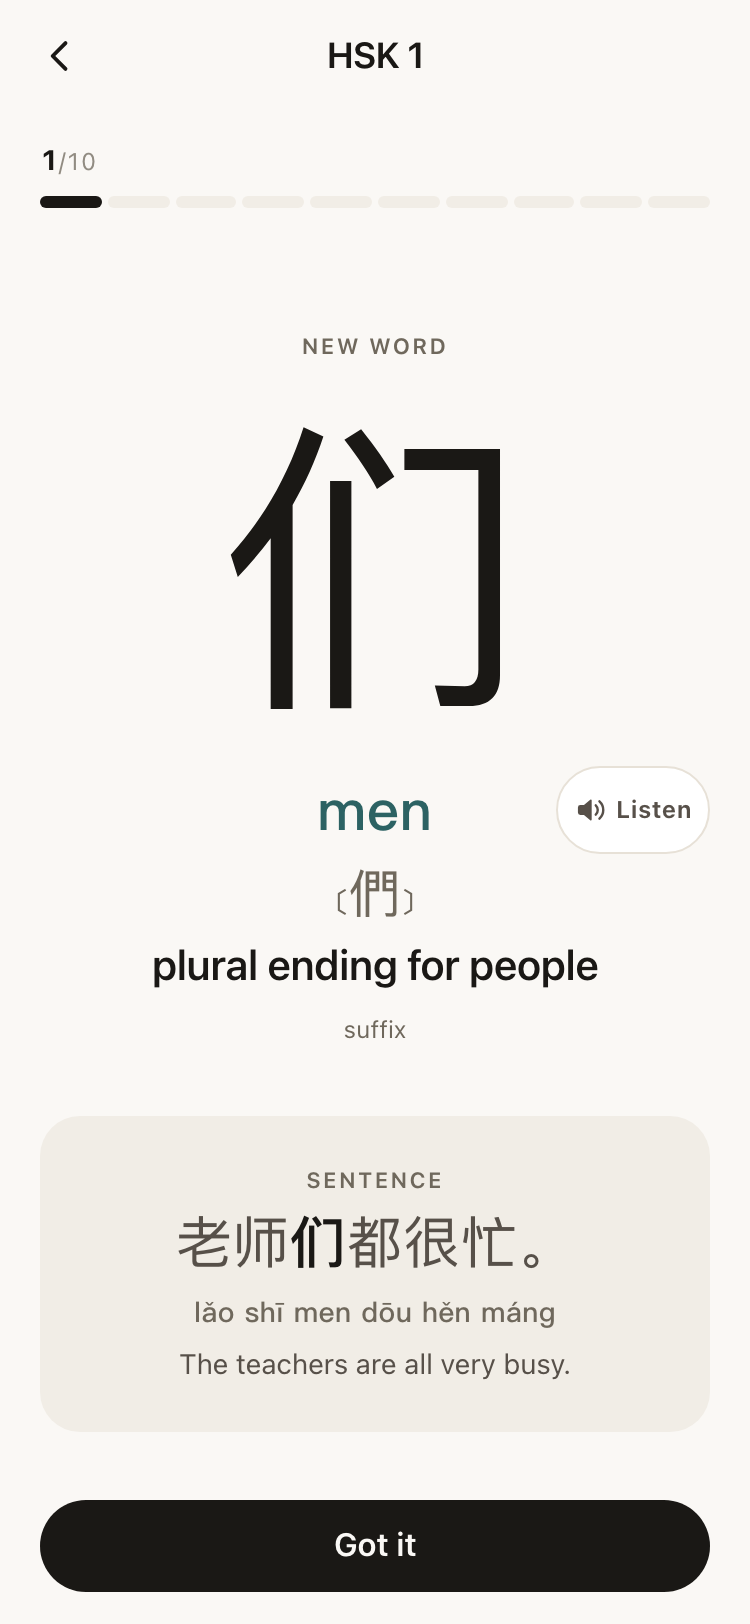
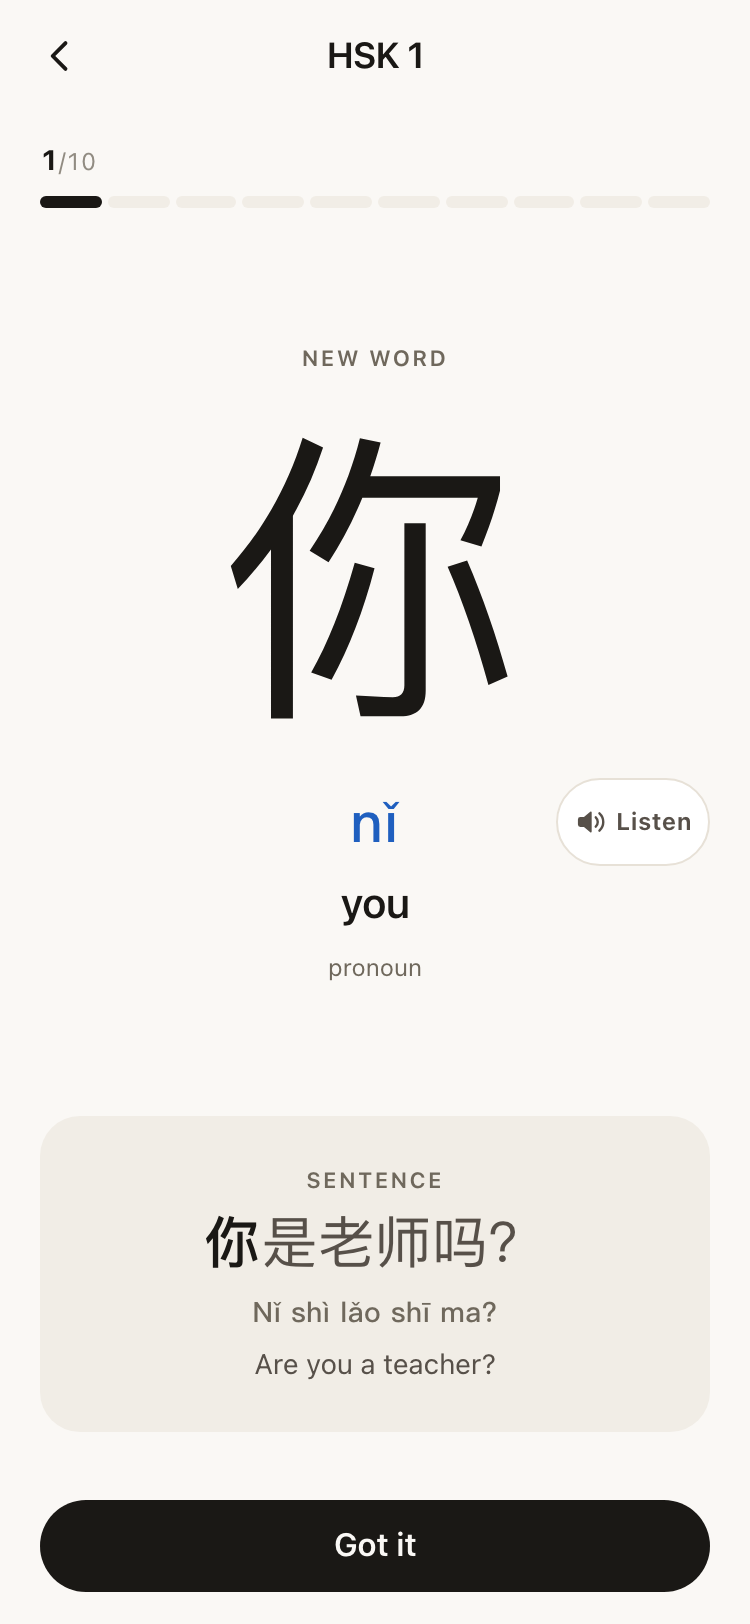
critic(session-engine): FAIL — Ask a new word its first question in the session that introduced it, and stop counting t [loop 5]

diff --git a/progress/verdicts/loop-5-session-engine.md b/progress/verdicts/loop-5-session-engine.md
@@ -1,0 +1,132 @@
+# loop 5 — session-engine
+
+**FAIL.** Loop 4's named gap did land — a taught word now counts on the home screen and has its
+own bucket in browse (`3a6c6e9`, `91c46ea`) — but the defect underneath it is untouched and now
+sits on the first screen a new learner sees: **session 1 is ten teach cards and zero questions**,
+and the rail counts them as questions. Five of the critic's six findings survived the adversarial
+verifier; I re-drove the real `buildSession` + `applyAnswer`/`applySeen` loop myself and reproduced
+the headline numbers to the digit.
+
+## Surviving findings
+
+### 1. MAJOR — a "ten-question session" that asks nothing, and says it did
+
+`buildSession(hsk1, 1, null, 10)` returns 10 of 10 `kind === 'introduce'` (my run, seed 7). Driving
+60 daily sessions through the real store loop, `introduce` is **30.8% of all 600 cards at 90%, 75%
+and 55% accuracy** — identical to three figures, because the count is quota-driven, not
+accuracy-driven. The per-session intro sequence is `10, 0, 4, 3, 3, 3, …` and never leaves 3.
+
+On screen: `QuizProgress.svelte:32` emits `<span class="sr-only">Question </span><b>{shown}</b>/<b>{total}</b>`,
+and `quiz/[level]/+page.svelte:353` renders it **above** the `{#if !teaching}` guard that removes
+the choice grid — so the strip announces "Question 1/10" over a card with no question on it
+(`progress/shots/loop-5/session-engine-mobile.png`, `session-engine-s1-card1-mobile.png`).
+`+page.svelte:167` promises "Five levels, ten questions a session"
+(`session-engine-home-after-mobile.png`); `README.md:3` promises "a ~10-question session".
+Fair to the builder: `SessionSummary` already special-cases `firstLook`
+(`session-engine-s1-summary-mobile.png` reads "10 new words introduced", not "0 of 10 correct"),
+so the overstatement is confined to `QuizProgress` and the home/README copy.
+
+### 2. MAJOR — production is rare, and rarest for the learner who needs it; the cause is structural
+
+My 60-session runs on L1: 90% → 30.8 / 45.7 / **23.5**; 75% → 30.8 / 53.7 / **15.5**; 55% →
+30.8 / 61.3 / **7.8** (introduce / recognition / production). "Quizzing in both directions" is
+withheld from exactly the learner who is struggling. The critic blamed `cardKindFor`'s miss-reset;
+that is wrong and the verifier's correction stands — `PRODUCTION_STREAK` is 1, so a 55% learner
+reaches it constantly. The real cause is ineligibility: over 120 daily sessions (1,200 cards) I
+count **365 introductions + 362 first-questions = 727 cards, 60.6%**, that can never be production
+because `direction.ts:107-109` forces recognition at `answers <= 0`. Only 473 cards in four months
+of daily practice review anything older than 48 hours. The production card that does appear is a
+good card (`session-engine-production-mobile.png`) — there are just not many of them.
+
+### 3. MAJOR (raised from the verifier, not in the critic's list) — 44% of taught words are answered exactly once, ever
+
+Same 120-session run: 365 words met, **160 answered exactly once**, 3 never answered at all. At 60
+sessions the once-only share runs 74/182 at 90% accuracy up to 96/182 at 55%. `wordWeight` drops a
+word to `streakDecay^1` on its first correct answer while the intro + debt pipeline hands out six
+guaranteed slots a session, so a word answered right once is out-competed permanently. This is the
+**opposite** of the critic's refuted finding 5: the model under-reviews correct words far more
+severely than it over-reviews recovered ones.
+
+### 4. MINOR — discovery is stuck at 3.08 new words a session, and the docs say otherwise
+
+60 sessions at 75%: 600 cards, **185 distinct words met, 182 answered, 3 taught-but-never-asked**,
+185 intro cards = 3.08/session → ~162 daily sessions to finish HSK 1. It is a fixed point, not
+noise: `exploreShare = 4`, `capacity = OWED_SESSIONS × 6 = 12`, `owed = 3` ⇒ `brake = 0.75` ⇒
+`explore = 3`, and the `debt` quota (`index.ts:279-284`) clears exactly those three, re-creating
+`owed = 3`. The brake is throttled by a debt the same session manufactures. Two comments are false
+of the shipped code for *every* learner including a perfect one: `weighting.ts:127` ("meets 4 new
+words every session no matter how much revision is outstanding") and `index.ts:147` ("A learner who
+is keeping up sees the full 40%").
+
+### 5. MINOR — metalinguistic cards have a closed distractor carousel
+
+`SIGNALS['hanzi-to-meaning'].register = 20` (`distractors.ts:107`) outranks every other signal
+combined (6+4+4+2 = 16) and L1 ships only 14 metalinguistic glosses. Over 400 draws each: 间, 的,
+次, 杯, 本, 吧 each drew **exactly 4 distinct distractors, ever**; control 好 drew 29. Verifier's
+correction: it is not all 14 — 别 draws 11, 第 10, 地 6 — so the lock-in is the ~5 measure words
+plus ~4 particles. Seen on screen twice in real runs (间 and later 本 against the same three).
+
+### 6. MINOR — home says "practised", browse says "not yet tested", about the same ten records
+
+After one all-teach session: `levelStats` → `{practised: 10, answered: 0}` and
+`overallSummary → {practised: 10}`, so `/` reads "10 words practised" and "HSK 1 · 10 of 500
+practised" with a filled bar (`session-engine-home-after-mobile.png`), while `/browse/1` reads
+"490 New · 10 Shown", "Shown by a teach card, not yet tested", and **no Learning chip at all**
+(`session-engine-browse-shown-mobile.png`). Both halves are prescribed by `record.ts:170-180`;
+the only defect is the word *practised* in `levels/stats.ts:60` and `LevelCard.svelte:221`. That
+belongs to level-select, not to this piece.
+
+### 7. MINOR (latent) — `cardKindFor` reads a raw field it says it doesn't
+
+`direction.ts:108` reads `record?.wordId` directly, contradicting its own docstring ("Reads
+`readRecord`, not the raw fields"). A record without `wordId` falls back to `phase('') = 1` and
+flips the refresh schedule. Unreachable through the shipped store (`blankWord` always sets it).
+
+## Refuted — do not re-litigate
+
+The critic's "no interval, a recovered word is met in 35% of sessions" is **off by ~50x**. In a
+genuinely played store the 12 words missed-then-recovered-3× were drawn 3 times across 40
+subsequent sessions (0.6% per word-session); synthetic constructions peak at 7/40, never 40/40.
+The *ratio* is real (weight 1.060 vs 0.130, because `accuracy = 1 + 4 × lifetime error rate` never
+decays) but both sit far below the draw threshold. The "4.36 of 10 words repeat" symptom is real
+and misattributed: it is the debt quota returning the previous session's 3 teach cards at a rate of
+1.000 by design, not `restMs`.
+
+## What held up
+
+The verifier's 125 fuzzed sessions across all five levels: zero short sessions, zero duplicate
+words in a run, zero cards with other than 4 choices, zero duplicate hanzi in a card, zero
+cross-question answer leakage, no word introduced twice in 120 sessions. Degenerate inputs
+(`size` NaN/-5/0/3.7/1e6, empty list, wrong level, NaN `now`, rng pinned to 0 and 0.999999) all
+return coherent sessions. `buildSession` costs 4.7 ms on L1, 10.8 ms on L5. Loop 4's `require`
+side door is gone, as instructed.
+
+## Blind judge
+
+None run for session-engine this loop — `progress/blind/loop-5/` covers app-shell, design-system,
+level-select, quiz-card, session-summary, vocab-browse only. Same omission as loop 4.
+
+## Biggest gap
+
+**Ask a new word its first question in the session that introduced it, and stop counting the teach
+card as a question.** One change, in `src/lib/session/index.ts` and `QuizProgress.svelte`:
+
+1. When a word is drawn from `fresh`, emit **two** cards for it in the same run — the `introduce`
+   card and its own `hanzi-to-meaning` first question, placed at least three cards later in `order`.
+   Budget it in *slots*, not words: the pair costs two of the ten cards. Hold the steady state at
+   3 new words (6 cards) + 4 review cards, which is exactly today's card economics — 3 intros plus
+   3 first-questions plus 4 reviews — so review depth does not regress while session 1 becomes five
+   teach cards and five real questions instead of ten and none.
+2. With nothing outstanding, the `owed` bucket is empty by construction. **Delete** `OWED_SESSIONS`
+   / `MIN_FRESH` and the `brake` (`index.ts:135-165`), the `Math.max(0, owed) >= size ⇒ explore = 0`
+   branch (`:163-164`), and the `debt` half-quota (`:277-284`). The 3.08 fixed point, the 3
+   taught-but-never-asked words, and the 1.000 teach-card repeat rate all die with them.
+3. Number only scored cards: `QuizProgress` must count `isScored(question)` cards, and a teach card
+   must read "New word", not "Question 4/10". Then the home strapline (`+page.svelte:167`) and
+   `README.md:3` are true as written.
+
+Verify in a real browser on a cleared store, not in vitest: session 1 must contain at least four
+cards with choice buttons; `/browse/1` immediately after it must show a non-zero **Learning** chip
+rather than 10 Shown / 0 Learning; and the rail must never say "Question n/10" over a card with no
+choices. Screenshot all three. Finding 3 (a word answered right once should come back before a
+never-met word does) is the next thing worth touching, and only after this is on screen.
